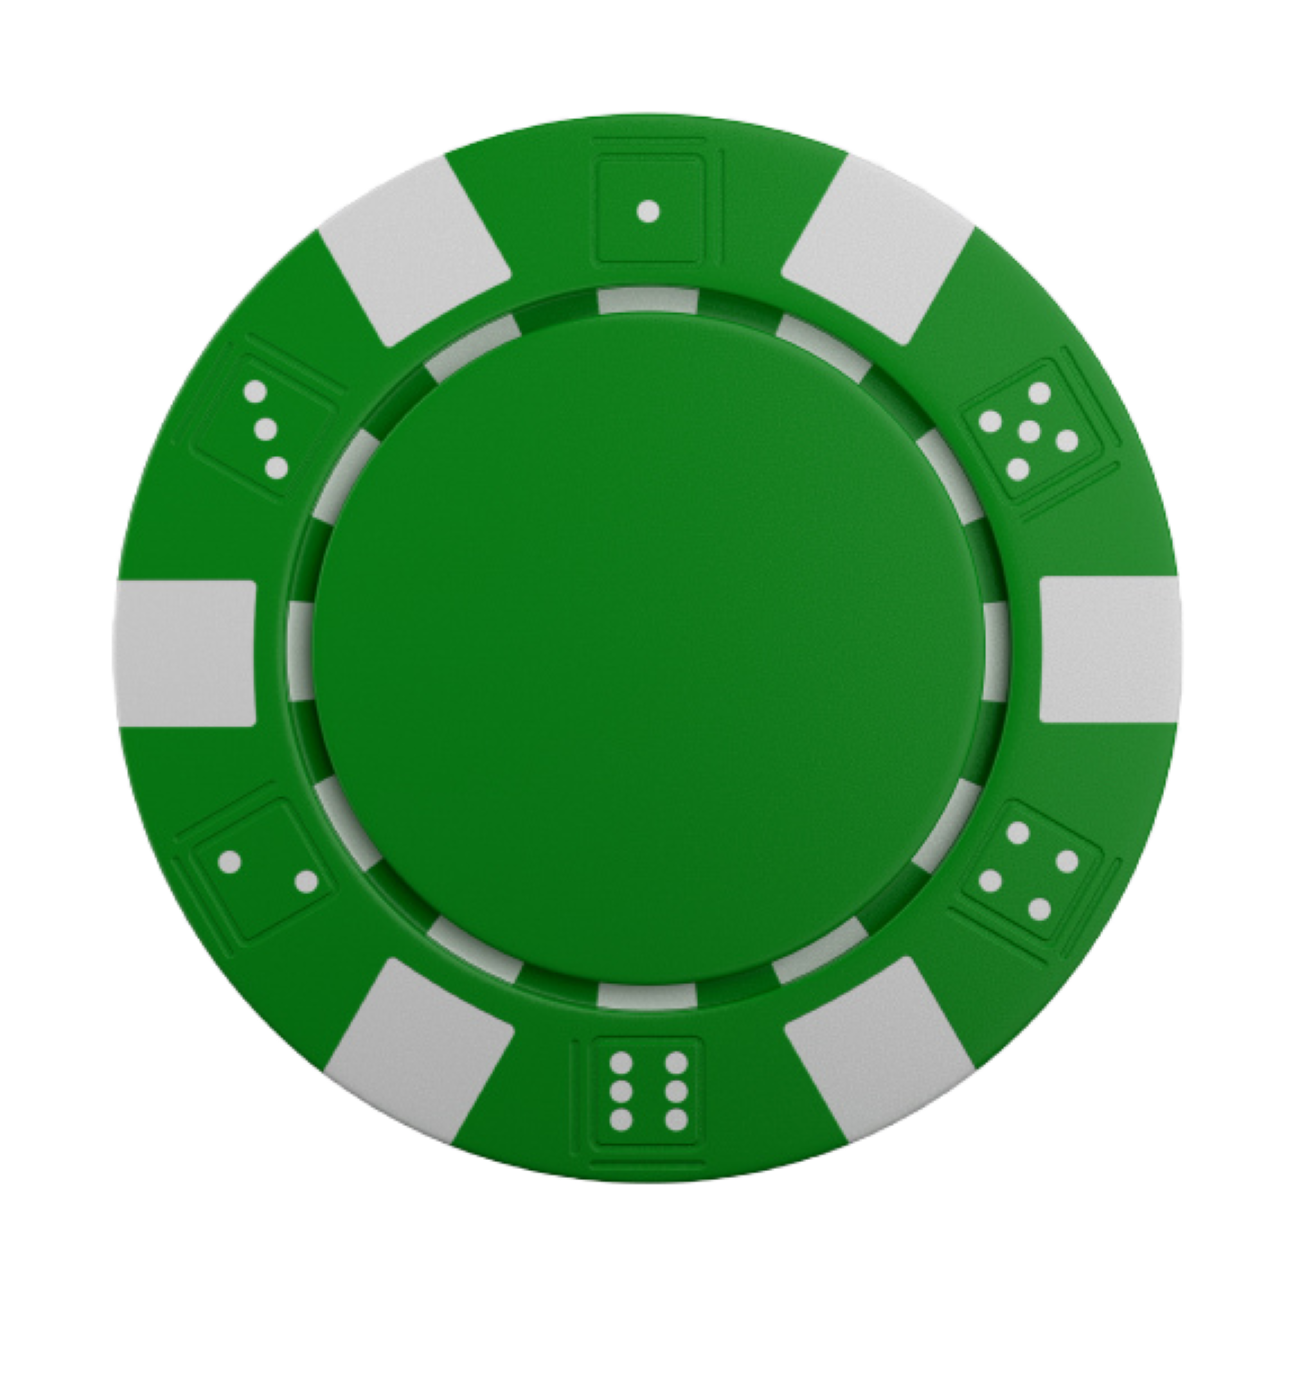
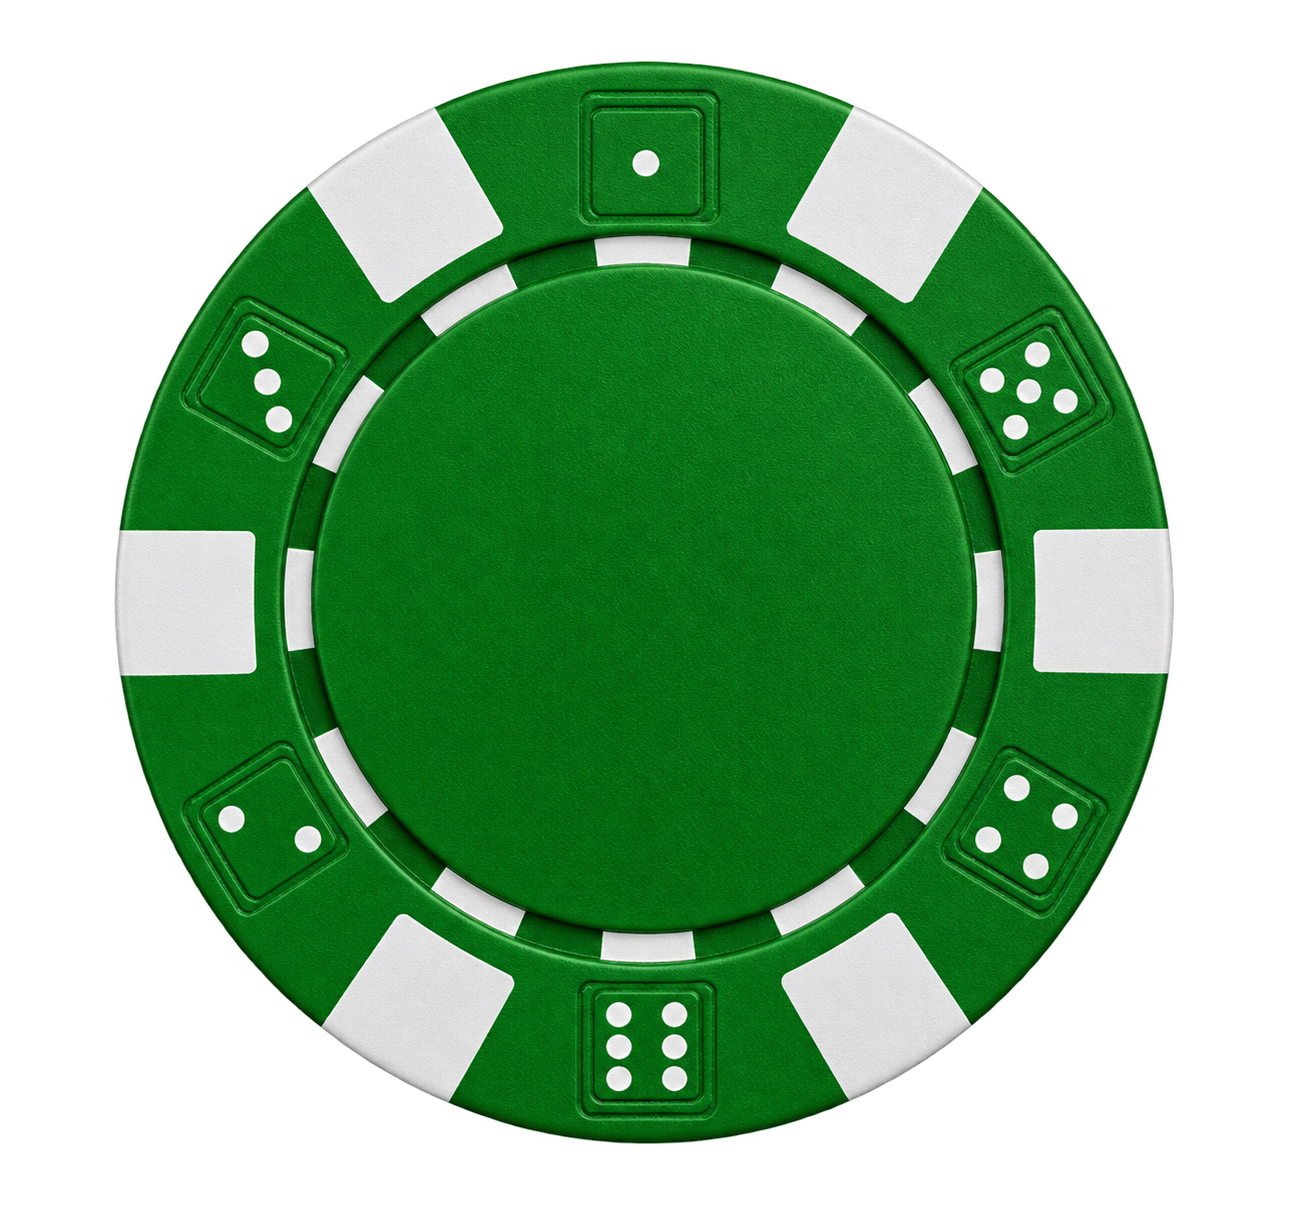
botones de acciones agregados

Changed region(s): [[0.0617, 0.0306, 0.9252, 0.9472], [0.185, 0.1833, 0.2159, 0.2139]]

diff --git a/src/views/ModoHumano.tsx b/src/views/ModoHumano.tsx
@@ -8,14 +8,51 @@ import greenChip from "../assets/green poker chip.png"
 import blackChip from "../assets/black poker chip.png"
 import purpleChip from "../assets/purple poker chip.png"
 import deal from "../assets/deal.png"
+import doubleDown from "../assets/double down.png"
+import stand from "../assets/stand.png"
 import { useState } from "react"
 
+function doubleDownAccion(empezado: boolean){
+    if(empezado){
+        return(
+            <li>
+                <button type="button" id="button_empezar">
+                    <img src={doubleDown} alt="Deal" style={{height: "4vw", filter: "invert(100%)"}}/>
+                </button>
+            </li>
+        )
+    }else{
+        return(<></>)
+    }
+}
+
+function standAccion(empezado: boolean){
+    if(empezado){
+        return(
+            <li>  
+                <button type="button" id="button_empezar">
+                    <img src={stand} alt="Deal" style={{height: "4vw"}}/>
+                </button>
+            </li>
+        )
+    }else{
+        return(<></>)
+    }
+}
+
 function empezarJuego(empezar: boolean){
+    const [empezado, setEmpezado] = useState(false);
     if(empezar){
         return(
-            <button type="button" id="button_empezar">
-                <img src={deal} alt="Deal" style={{height: "4vw", filter: "invert(100%)"}}/>
-            </button>
+            <ul id="ul_acciones">
+                <li>
+                    <button type="button" id="button_empezar" onClick={()=> setEmpezado(true)}>
+                        <img src={deal} alt="Deal" style={{height: "4vw", filter: "invert(100%)"}}/>
+                    </button>
+                </li>
+                {doubleDownAccion(empezado)}
+                {standAccion(empezado)}
+            </ul>
         )
     }else{
         return(<></>)
@@ -26,10 +63,13 @@ export default function ModoHumano(){
     const [empezar, setEmpezar] = useState(false);
     return(
         <div id = "div_principal">
-            <link href="https://cdn.jsdelivr.net/npm/bootstrap@5.3.8/dist/css/bootstrap.min.css" rel="stylesheet" integrity="sha384-sRIl4kxILFvY47J16cr9ZwB07vP4J8+LH7qKQnuqkuIAvNWLzeN8tE5YBujZqJLB"crossorigin="anonymous"></link>
             <img src={titulo} alt="Título" id="titulo"/>
             <div>
-                <img src={tablero} alt="Tablero" id="tablero"/>
+                <div id="div_tablero">
+                    <img src={tablero} alt="Tablero" id="tablero"/>
+                    
+                    {empezarJuego(empezar)}
+                </div>
                 <div id="id_fichas_buttons">
                     <ul id="ul_fichas">
                         <li>
@@ -48,10 +88,8 @@ export default function ModoHumano(){
                             <Fichas valor={500} img={purpleChip} onPress={(empezar) => setEmpezar(empezar)}/>
                         </li>
                     </ul>
-                    {empezarJuego(empezar)}
                 </div>
             </div>
-            <script src="https://cdn.jsdelivr.net/npm/bootstrap@5.3.8/dist/js/bootstrap.bundle.min.js" integrity="sha384-FKyoEForCGlyvwx9Hj09JcYn3nv7wiPVlz7YYwJrWVcXK/BmnVDxM+D2scQbITxI"crossorigin="anonymous"></script>
         </div>
     )
 }

diff --git a/src/views/ModoHumano.css b/src/views/ModoHumano.css
@@ -6,6 +6,12 @@
     background-color: black;
 }
 
+#div_tablero{
+    display: flex;
+    flex-direction: row;
+    align-items: center;
+}
+
 #tablero{
     height:45vw;
     border-radius: 5vw;
@@ -18,6 +24,16 @@
     display: flex;
     flex-direction: row;
     justify-content: center;
+}
+
+#ul_acciones{
+    list-style: none;
+    display: flex;
+    flex-direction: column;
+    justify-content: center;
+    position: absolute;
+    margin-left: 75%;
+    gap: 2vw;
 }
 
 #fichas_button{
@@ -39,8 +55,6 @@
     background-color: black;
     border: none;
     border-radius: 15%;
-    margin-left: 85%;
-    position: absolute;
 }
 
 #button_empezar:hover{

diff --git a/src/components/Fichas.tsx b/src/components/Fichas.tsx
@@ -8,7 +8,7 @@ export type FichaProps = {
 
 const Ficha = ({ valor, img, onPress }: FichaProps) =>{
     return(
-        <button id="fichas_button" onClick={() => onPress && onPress(true)}>
+        <button id="fichas_button" onClick={() => onPress && onPress(true)} >
             <img src={img} alt={`Ficha ${valor}`} style={{height: "5vw"}}/>
         </button>
     )

diff --git a/src/App.tsx b/src/App.tsx
@@ -11,7 +11,7 @@ function App() {
 
   return (
     <>
-      <ModoHumano />
+      <ModoHumano/>
     </>
   )
 }
